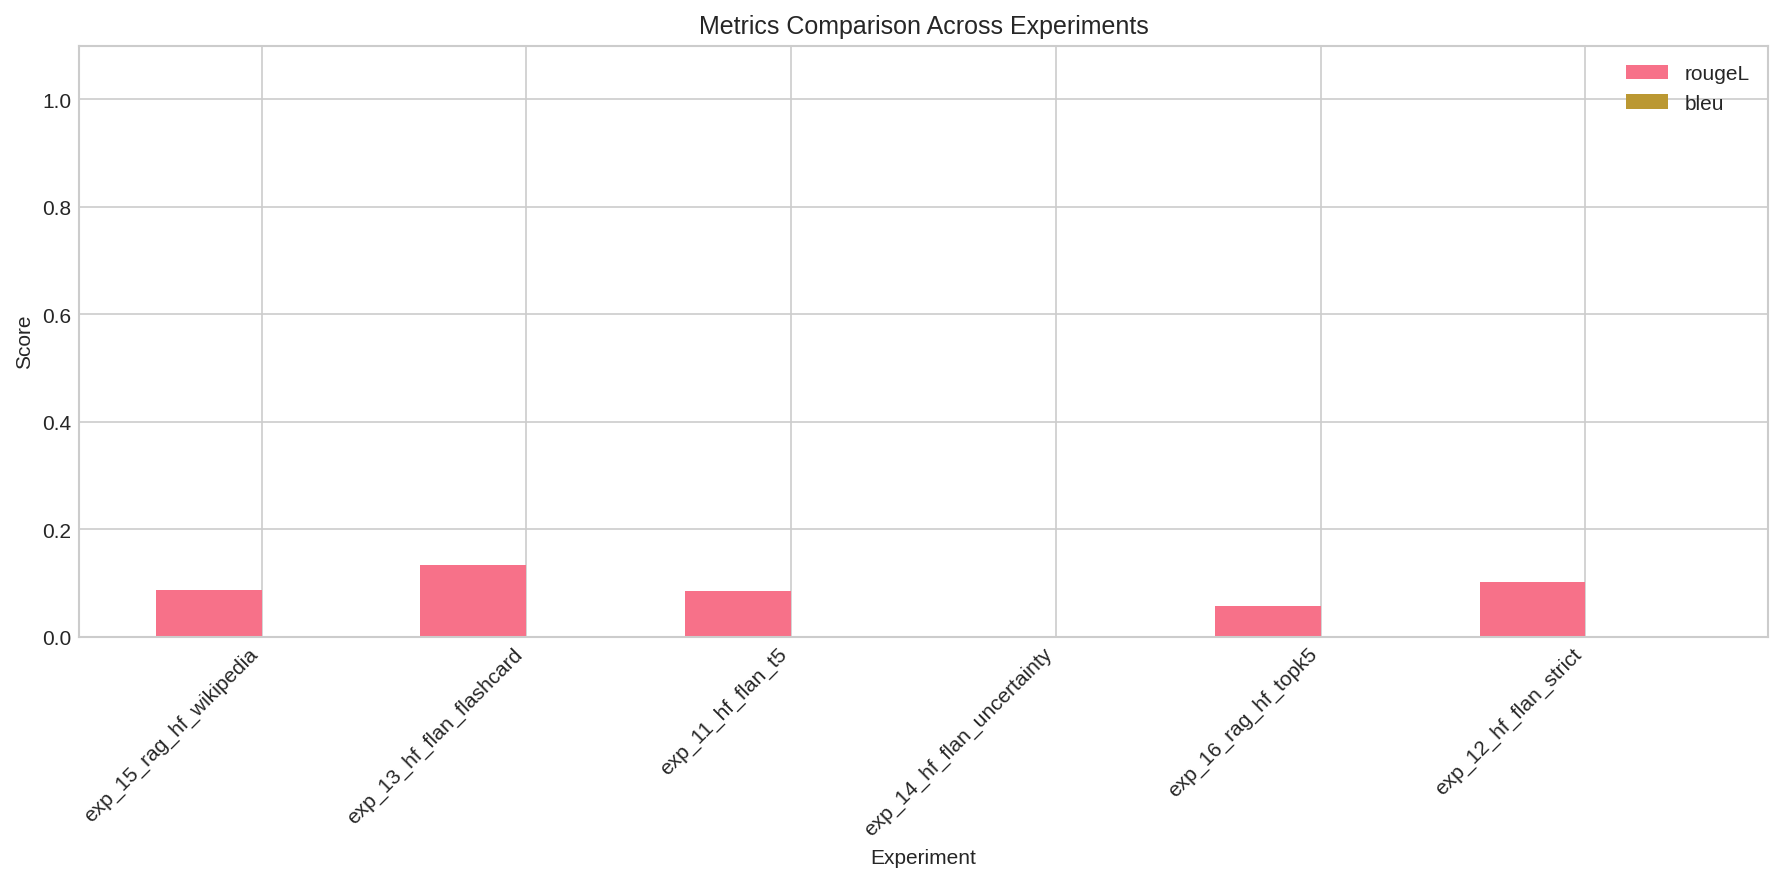
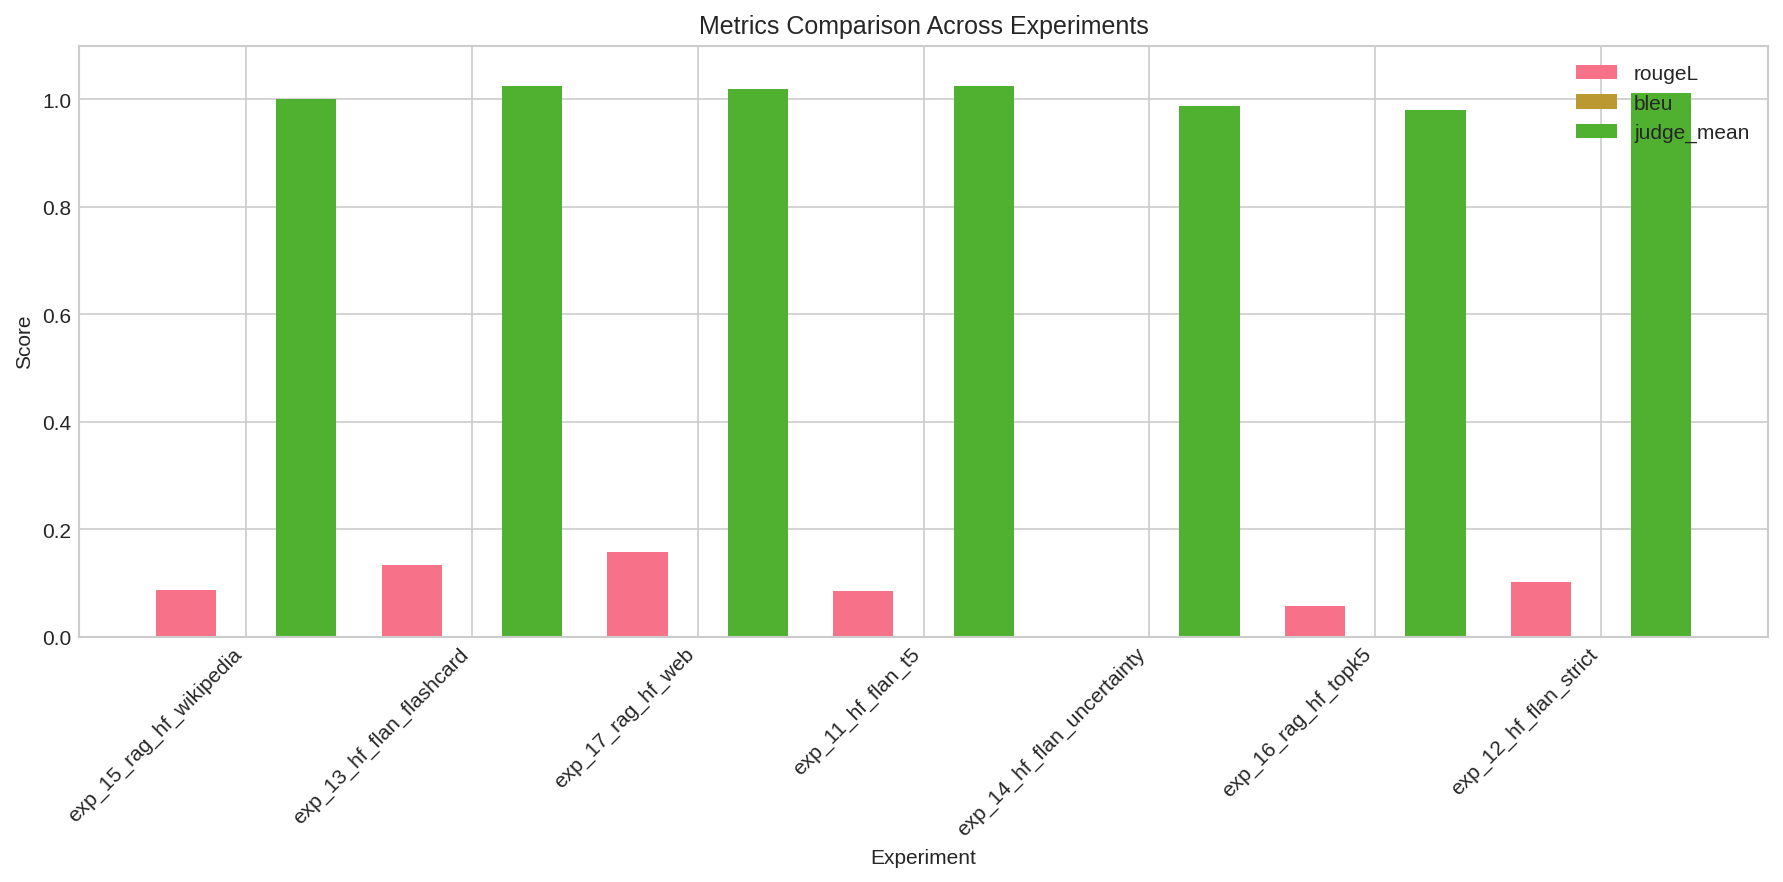
Finalize full local evaluation with judge and web RAG results

diff --git a/report/report.tex b/report/report.tex
@@ -248,7 +248,7 @@ Additional metrics for output quality:
     \begin{figure}[H]
         \centering
         \includegraphics[width=0.9\textwidth]{figures/metrics_comparison.png}
-        \caption{Comparison of ROUGE-L and BLEU across local closed-book and RAG experiments.}
+        \caption{Comparison of ROUGE-L, BLEU, and local LLM-judge mean across local closed-book and RAG experiments.}
         \label{fig:metrics}
     \end{figure}
 }{
@@ -257,13 +257,13 @@ Additional metrics for output quality:
 
 \subsection{Judge Score Distribution}
 
-This run was executed without cloud API credentials to keep the pipeline fully local and cost-free, so LLM-as-a-judge scores are not available in the final tables.
+LLM-as-a-judge was run locally using \texttt{google/flan-t5-large} as the judge model (no cloud API required).
 
 \IfFileExists{figures/judge_distribution.png}{
     \begin{figure}[H]
         \centering
         \includegraphics[width=0.9\textwidth]{figures/judge_distribution.png}
-        \caption{Judge distribution placeholder (judge step skipped in this local run).}
+        \caption{Distribution of local LLM judge scores (Correct/Partial/Wrong) by experiment.}
         \label{fig:judge}
     \end{figure}
 }{
@@ -298,7 +298,8 @@ Selected examples from each category (best, worst, controversial) are summarized
 \subsection{Successful Cases}
 
 \begin{itemize}
-    \item The flashcard-style prompt (\texttt{exp\_13\_hf\_flan\_flashcard}) gave the strongest lexical alignment (ROUGE-L 0.1328), with concise outputs and low multi-sentence rate (3.75\%).
+    \item The web-based RAG setup (\texttt{exp\_17\_rag\_hf\_web}) achieved the highest lexical scores (ROUGE-L 0.1582, BLEU 0.0003), outperforming the Wikipedia RAG variant and all closed-book local baselines.
+    \item Among closed-book variants, the flashcard-style prompt (\texttt{exp\_13\_hf\_flan\_flashcard}) gave the strongest lexical alignment (ROUGE-L 0.1328), with concise outputs and low multi-sentence rate (3.75\%).
     \item Questions with explicit procedural wording (e.g., effects of ion transport, definition-style prompts) were generally handled better than broad clinical management questions.
     \item The strict one-sentence setup (\texttt{exp\_12\_hf\_flan\_strict}) improved consistency over the simple direct baseline (\texttt{exp\_11}), suggesting prompt structure matters even for the same model.
 \end{itemize}
@@ -308,16 +309,18 @@ Selected examples from each category (best, worst, controversial) are summarized
 \begin{itemize}
     \item The uncertainty-allowed prompt (\texttt{exp\_14}) collapsed into systematic abstention: 100\% ``Insufficient information'', near-zero ROUGE-L (0.0004).
     \item Some answers were fluent but medically off-target (e.g., wrong entities for enzyme/pathogen questions), indicating factual brittleness of small local models.
+    \item Increasing RAG context from top\_k=3 to top\_k=5 degraded quality (ROUGE-L 0.0866 \(\rightarrow\) 0.0576) while increasing latency (925ms \(\rightarrow\) 1451ms), suggesting context-noise effects.
     \item Long multi-concept questions (diagnosis + treatment + mechanism) showed lower overlap and more generic responses.
 \end{itemize}
 
 \subsection{Controversial Cases}
 
-Without judge scores, controversial cases were identified from low lexical overlap but partially plausible responses:
+Several experiments show metric-judge divergence:
 
 \begin{itemize}
-    \item Some RAG responses were semantically related but phrased too generally, yielding low ROUGE/BLEU despite partially relevant content.
-    \item Several closed-book responses matched the sentence format but omitted crucial medical specificity, which automatic overlap metrics only partially capture.
+    \item The uncertainty prompt has the lowest lexical overlap but a near-partial judge mean (0.9875), showing that abstention can be interpreted as ``partially acceptable'' by the local judge while remaining uninformative for QA.
+    \item RAG web has the best lexical scores, but judge-correct remains low (4\%), indicating many outputs are still treated as incomplete rather than fully correct.
+    \item Judge means cluster near 1.0 across methods, highlighting the need for careful interpretation and possible human validation.
 \end{itemize}
 
 \section{Discussion}
@@ -325,10 +328,11 @@ Without judge scores, controversial cases were identified from low lexical overl
 \subsection{Key Findings}
 
 \begin{enumerate}
-    \item \textbf{Prompt engineering had the largest positive impact in this local setting.} Flashcard prompting improved ROUGE-L from 0.0855 (simple direct baseline) to 0.1328 (+55\% relative).
-    \item \textbf{RAG was not automatically better with a small generator.} RAG top\_k=3 reached ROUGE-L 0.0866, while top\_k=5 dropped to 0.0576 and increased latency from 925ms to 1451ms, showing context-noise and cost trade-offs.
-    \item \textbf{Abstention prompting requires calibration.} The uncertainty prompt over-triggered abstention (100\%), making outputs safe but uninformative.
-    \item \textbf{Compute-aware experimentation is feasible.} A fully local CPU pipeline produced reproducible results across multiple strategies with zero API cost, suitable for course constraints.
+    \item \textbf{Retrieval source matters.} Web RAG (\texttt{exp\_17}) outperformed Wikipedia RAG and closed-book variants on ROUGE/BLEU in this setup, suggesting broader retrieval coverage helped lexical alignment.
+    \item \textbf{Prompt engineering remains important.} Flashcard prompting substantially improved closed-book quality versus simple direct prompting.
+    \item \textbf{More retrieved context is not always better.} The top\_k=5 RAG ablation increased latency and reduced quality versus top\_k=3.
+    \item \textbf{Abstention prompting requires calibration.} The uncertainty prompt over-triggered abstention (100\%), making outputs safe but low-utility.
+    \item \textbf{Compute-aware experimentation is feasible.} A fully local CPU pipeline produced reproducible multi-strategy results with zero API cost.
 \end{enumerate}
 
 \subsection{Limitations}
@@ -346,7 +350,7 @@ Without judge scores, controversial cases were identified from low lexical overl
 
 \begin{itemize}
     \item ROUGE/BLEU penalize valid paraphrases
-    \item LLM judge was not run in this final local execution (no API-based semantic scoring)
+    \item Local LLM judge (\texttt{flan-t5-large}) showed strong bias toward score 1 (partial), limiting discriminative power
     \item Semantic equivalence is subjective in medical domain
     \item No gold-standard human evaluation
 \end{itemize}

diff --git a/report/tables/main_results.tex b/report/tables/main_results.tex
@@ -2,16 +2,17 @@
 \centering
 \caption{Main Results: Comparison of Medical QA Approaches}
 \label{tab:main_results}
-\begin{tabular}{lcccc}
+\begin{tabular}{lcccccc}
 \toprule
-Experiment & ROUGE-L & BLEU & Latency (ms) & N \\
+Experiment & ROUGE-L & BLEU & Judge & Correct \% & Latency (ms) & N \\
 \midrule
-exp_15_rag_hf_wikipedia & 0.0866 & 0.0001 & 925.1218 & 50 \\
-exp_13_hf_flan_flashcard & 0.1328 & 0.0009 & 265.1750 & 80 \\
-exp_11_hf_flan_t5 & 0.0855 & 0.0000 & 189.5464 & 80 \\
-exp_14_hf_flan_uncertainty & 0.0004 & 0.0000 & 120.9768 & 80 \\
-exp_16_rag_hf_topk5 & 0.0576 & 0.0001 & 1450.5536 & 50 \\
-exp_12_hf_flan_strict & 0.1025 & 0.0000 & 231.6121 & 80 \\
+exp_15_rag_hf_wikipedia & 0.0866 & 0.0001 & 1.0000 & 2.0000 & 925.1218 & 50 \\
+exp_13_hf_flan_flashcard & 0.1328 & 0.0009 & 1.0250 & 2.5000 & 265.1750 & 80 \\
+exp_17_rag_hf_web & 0.1582 & 0.0003 & 1.0200 & 4.0000 & 1243.6535 & 50 \\
+exp_11_hf_flan_t5 & 0.0855 & 0.0000 & 1.0250 & 2.5000 & 189.5464 & 80 \\
+exp_14_hf_flan_uncertainty & 0.0004 & 0.0000 & 0.9875 & 0.0000 & 120.9768 & 80 \\
+exp_16_rag_hf_topk5 & 0.0576 & 0.0001 & 0.9800 & 2.0000 & 1450.5536 & 50 \\
+exp_12_hf_flan_strict & 0.1025 & 0.0000 & 1.0125 & 1.2500 & 231.6121 & 80 \\
 \bottomrule
 \end{tabular}
 \end{table}
